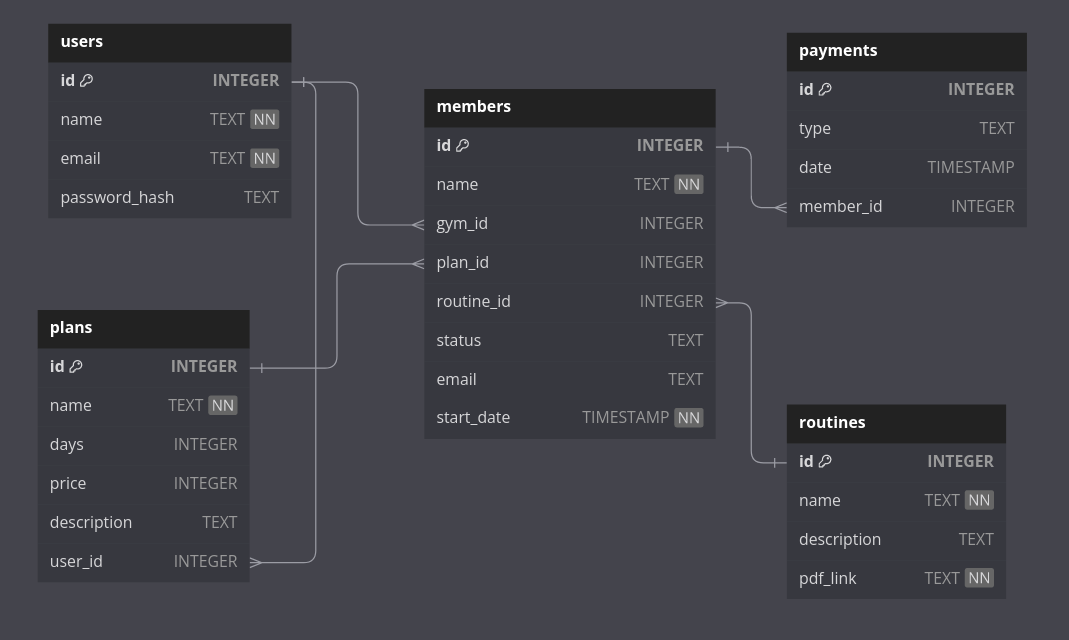
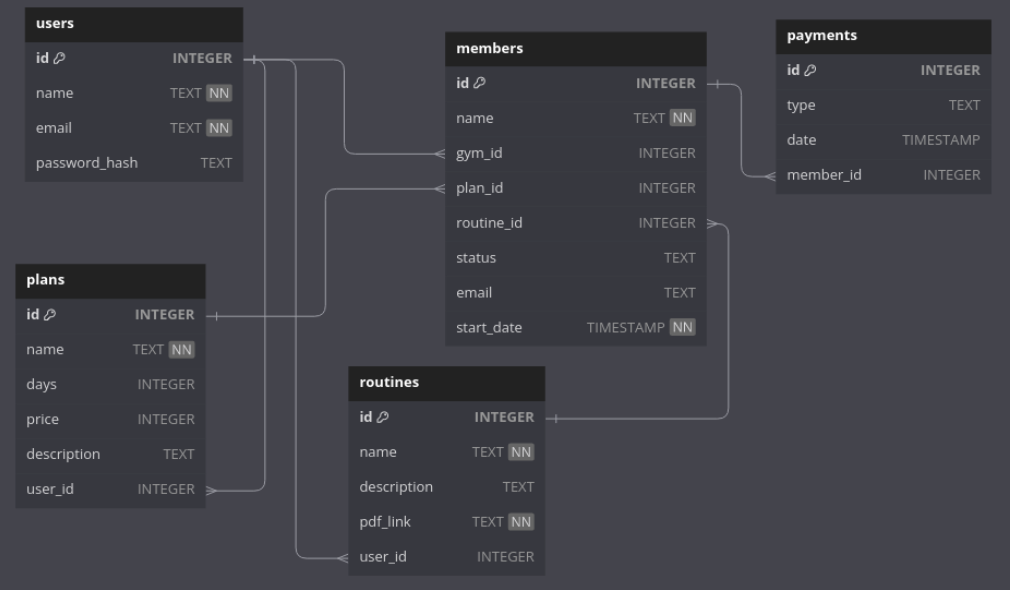
alm rt d

diff --git a/templates/memberships.html b/templates/memberships.html
@@ -10,7 +10,7 @@
 
 
   <div class="d-flex align-items-center ">
-  <h1 style="margin-top:10px; width:100%">Membresias</h1>
+  <h1 style="margin-top:10px; width:100%">Membresias:</h1>
       <div class="" style="display: inline-block;">
         <div style="display: inline-block;margin-bottom:10px;margin-top:14px;">
           <div class="btn-group">
@@ -46,7 +46,6 @@
       </div>
       
       <div class="modal-body">
-        <!--Poner accion en app.py-->
         <form action="/create_new_membership" method="post" >
           <!--Name label-->
           <div class="mb-3">
@@ -72,29 +71,19 @@
             <!--Rutine label-->
               <div class="col-6">
                 <label for="membershipRoutine" class="form-label">Rutina:</label>
-                <select class="form-select" id="membershipRoutine" name="MembershipRoutine">
-                  <!--Implementar for recorriendo la base de datos y agregando las opciones-->
-                  <option value="sexo">Plexo solar</option>
-                  <option value="tula">Tula frontal</option>
-                  <option value="Vurpis">Vurpis</option>
+                <select class="form-select" id="membershipRoutine" name="membershipRoutine">
+                  {% for routine in routines %}
+                  <option value="{{ routine['id'] }}">{{ routine['name'] }}</option>
+                  {% endfor %}
                 </select>
               </div>
           </div>
 
-            <!--Time label-->
+            <!--Email  label-->
             <div class="mb-3 row">
-              <div class ="col-6">
-              <div class="form-group">
-                <label for="datepicker" style="margin-bottom:8px;">Fecha:</label>
-                <div class="input-group">
-                  <input type="text" class="form-control" id="datepicker" readonly>
-                  <div class="input-group-append">
-                    <span class="input-group-text">
-                      <i class="bi bi-calendar"></i>
-                    </span>
-                  </div>
-                </div>
-              </div>
+              <div class="col-6">
+                <label for="membershipEmail" class="form-label">Email:</label>
+                <input type="membershipEmail" name="membershipEmail" class="form-control" id="membershipEmail" placeholder="Ingrese el Email">
               </div>
 
             <!--payment label-->
@@ -108,6 +97,7 @@
                 </select>
             </div>
             </div>
+
             <!--Description label-->
             <div class="mb-3">
               <label for="planDescription" class="form-label">Descripción:</label>

diff --git a/templates/routines.html b/templates/routines.html
@@ -6,6 +6,24 @@
 
 {% block main %}
 
+<div class="pagetitle">
+
+
+
+  <div class="d-flex align-items-center ">
+  <h1 style="margin-top:10px; width:100%">Rutinas:</h1>
+      <div class="" style="display: inline-block;">
+        <div style="display: inline-block;margin-bottom:10px;margin-top:14px;">
+          <div class="btn-group">
+            <button class="btn btn-primary ms-auto mr-2" type="button" style="white-space: nowrap;"  aria-haspopup="true" aria-expanded="false" data-bs-toggle="modal" data-bs-target="#createNewPlanModal">
+            <i class="bi bi-plus-lg "></i>   Crear Rutina
+            </button>
+          </div>
+        </div>
+      </div>
+    </div>
+  </div>
+
 <section class="section dashboard">
 
   <div class="col-lg-12">
@@ -18,6 +36,36 @@
   </div>
 </section>
 
-
+<!-- Create routine modal section-->
+<div class="modal fade" id="createNewPlanModal" tabindex="-1" aria-labelledby="createNewPlanModalLabel" aria-hidden="true">
+  <div class="modal-dialog modal-dialog-centered modal-dialog-scrollable modal-md">
+    <div class="modal-content">
+      <div class="modal-header">
+        <h5 class="modal-title" id="createNewPlanModalLabel">Crear Nueva Rutina</h5>
+        <button type="button" class="btn-close" data-bs-dismiss="modal" aria-label="Close"></button>
+      </div>
+      <div class="modal-body">
+        <!--Poner accion en app.py-->
+        <form action="/create_new_routine" method="post" >
+          <!--Name label-->
+          <div class="mb-3">
+            <label for="routineName" class="form-label">Nombre:</label>
+            <div class="input-group">
+              <input type="text" class="form-control" name="routineName" id="routineName" placeholder="Ingrese el nombre de la rutina">
+            </div>
+          </div>
+          <!--Description label-->
+            <div class="mb-3">
+              <label for="routineDescription" class="form-label">Descripción:</label>
+              <textarea class="form-control" id="routineDescription" name="routineDescription" placeholder="Ingrese una Descripcion"></textarea>
+            </div>
+            <div class="modal-footer">
+            <button type="submit" class="btn btn-primary">Crear</button>
+          </form>
+        </div>
+      </div>
+    </div>
+  </div>
+</div>
 
 {% endblock %}

diff --git a/templates/plans.html b/templates/plans.html
@@ -89,7 +89,6 @@
         <button type="button" class="btn-close" data-bs-dismiss="modal" aria-label="Close"></button>
       </div>
       <div class="modal-body">
-        <!--Poner accion en app.py-->
         <form action="/create_new_plan" method="post" >
           <!--Name label-->
           <div class="mb-3">

diff --git a/app.py b/app.py
@@ -88,8 +88,6 @@ def create_new_plan():
     plan_days = int(request.form['days'])
     plan_description = request.form['planDescription']
 
-    
-
     # Insertar datos del nuevo plan en la base de datos
     db.execute("INSERT INTO plans (name, days, price, description, user_id) "
                "VALUES (:plan_name, :plan_days, :plan_price,  :plan_description, :user_id)",
@@ -100,20 +98,49 @@ def create_new_plan():
     return redirect(url_for('plans'))
 
 
+@app.route('/create_new_routine', methods=['POST'])
+def create_new_routine():
+    """Create new routine """
+
+    # Get form data
+    routine_name = request.form['routineName']
+    routine_description = request.form['routineDescription']
+    pdf_link = 'a'
+
+    # Upload data to database
+    db.execute("INSERT INTO routines (name, description, pdf_link, user_id) "
+            "VALUES (:routine_name, :routine_description, :pdf_link, :user_id)",
+            routine_name=routine_name, routine_description=routine_description, pdf_link=pdf_link, user_id=session["user_id"])
+
+    # Redirigir al usuario a la página de índice
+    return redirect(url_for('routines'))
+
+
 @app.route('/create_new_membership', methods=['POST'])
 def create_new_membership():
     """Create new membership """
 
     # Get form data
-    membership_name = request.form['membership_name']
-    membership_plan_id = int(request.form['membershipPlan'])
-    membership_routine_id = int(request.form['membershipRoutine'])
-    membership_payment = request.form['membershipPayment']
-    membership_description = request.form['planDescription']
-
+    m_name = request.form['membershipName']
+    m_plan_id = int(request.form['membershipPlan'])
+    m_routine_id = int(request.form['membershipRoutine'])
+    m_payment = request.form['membershipPayment'] # make function to store payment in payments table
+    m_email = request.form['membershipEmail']
+    m_description = request.form['planDescription'] # modify db
+    
     # Save date and time
     current_datetime = datetime.now()
     formatted_datetime = current_datetime.strftime("%Y-%m-%d %H:%M:%S")
+    
+    # Upload data to database
+    db.execute("INSERT INTO members (name, gym_id, plan_id, routine_id, email, start_date) "
+           "VALUES (:m_name, :user_id, :m_plan_id, :m_routine_id, :m_email, :formatted_datetime)",
+           m_name=m_name, user_id=session["user_id"], m_plan_id=m_plan_id, m_routine_id=m_routine_id,
+           m_email=m_email, formatted_datetime=formatted_datetime)
+
+    
+    # Return to memberships page
+    return redirect(url_for('plans'))
 
 
 @app.route('/memberships', methods=['GET'])
@@ -122,10 +149,23 @@ def memberships():
     
     user_id = session.get("user_id")
     
+    routines = db.execute("SELECT * FROM routines WHERE user_id = :user_id", user_id=user_id)
     plans = db.execute("SELECT * FROM plans WHERE user_id = :user_id", user_id=user_id)
     users = db.execute("SELECT * FROM users WHERE id = :id", id=user_id)
 
     return render_template("memberships.html", users=users, plans=plans)
+
+
+@app.route('/routines', methods=['GET'])
+def routines():
+    """Show routines"""
+    
+    user_id = session.get("user_id")
+    
+    routines = db.execute("SELECT * FROM routines WHERE user_id = :user_id", user_id=user_id)
+    users = db.execute("SELECT * FROM users WHERE id = :id", id=user_id)
+
+    return render_template("routines.html", users=users, routines=routines)
 
 
 
